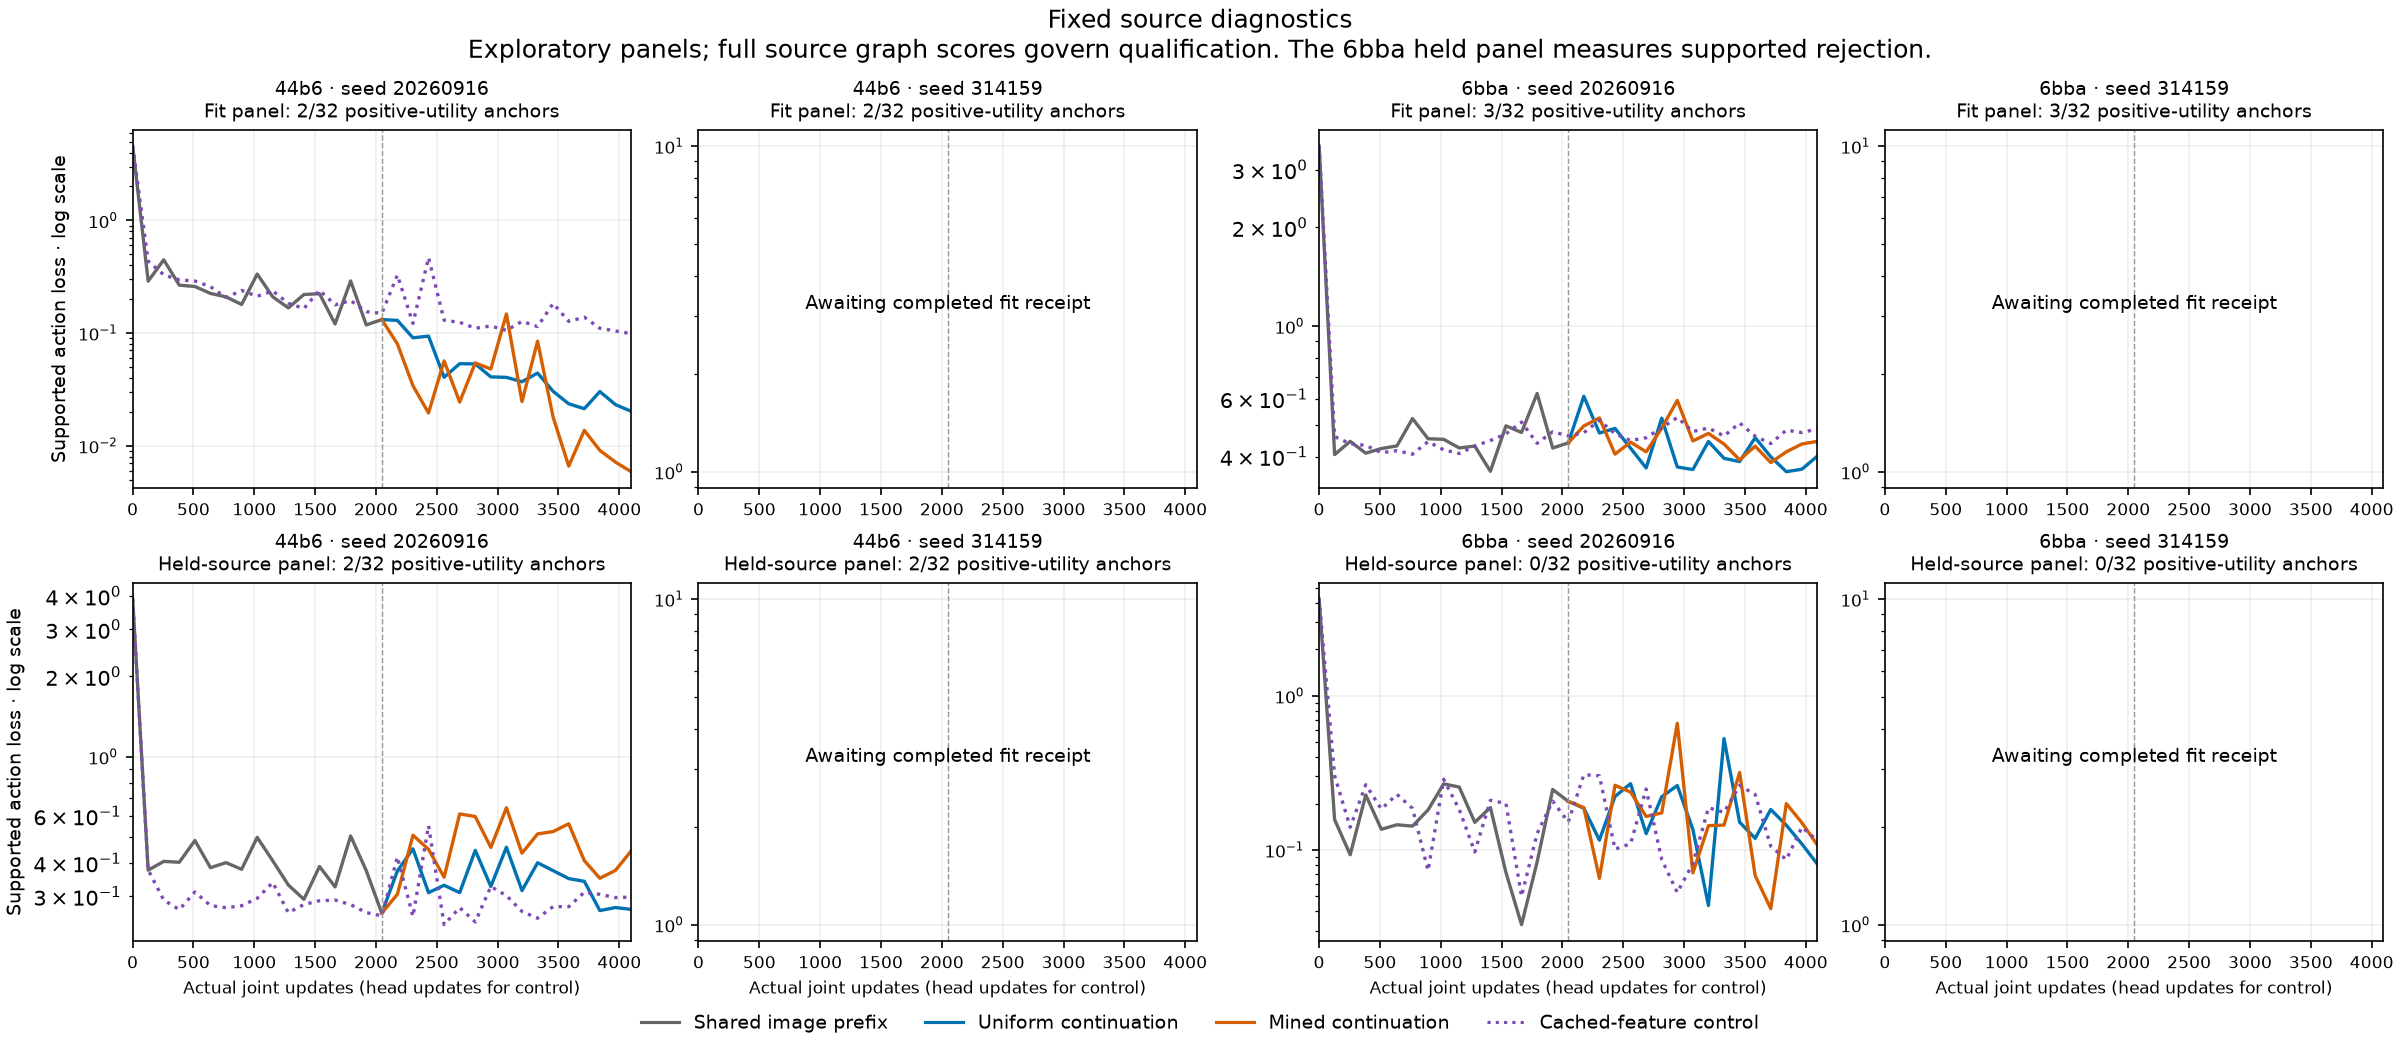
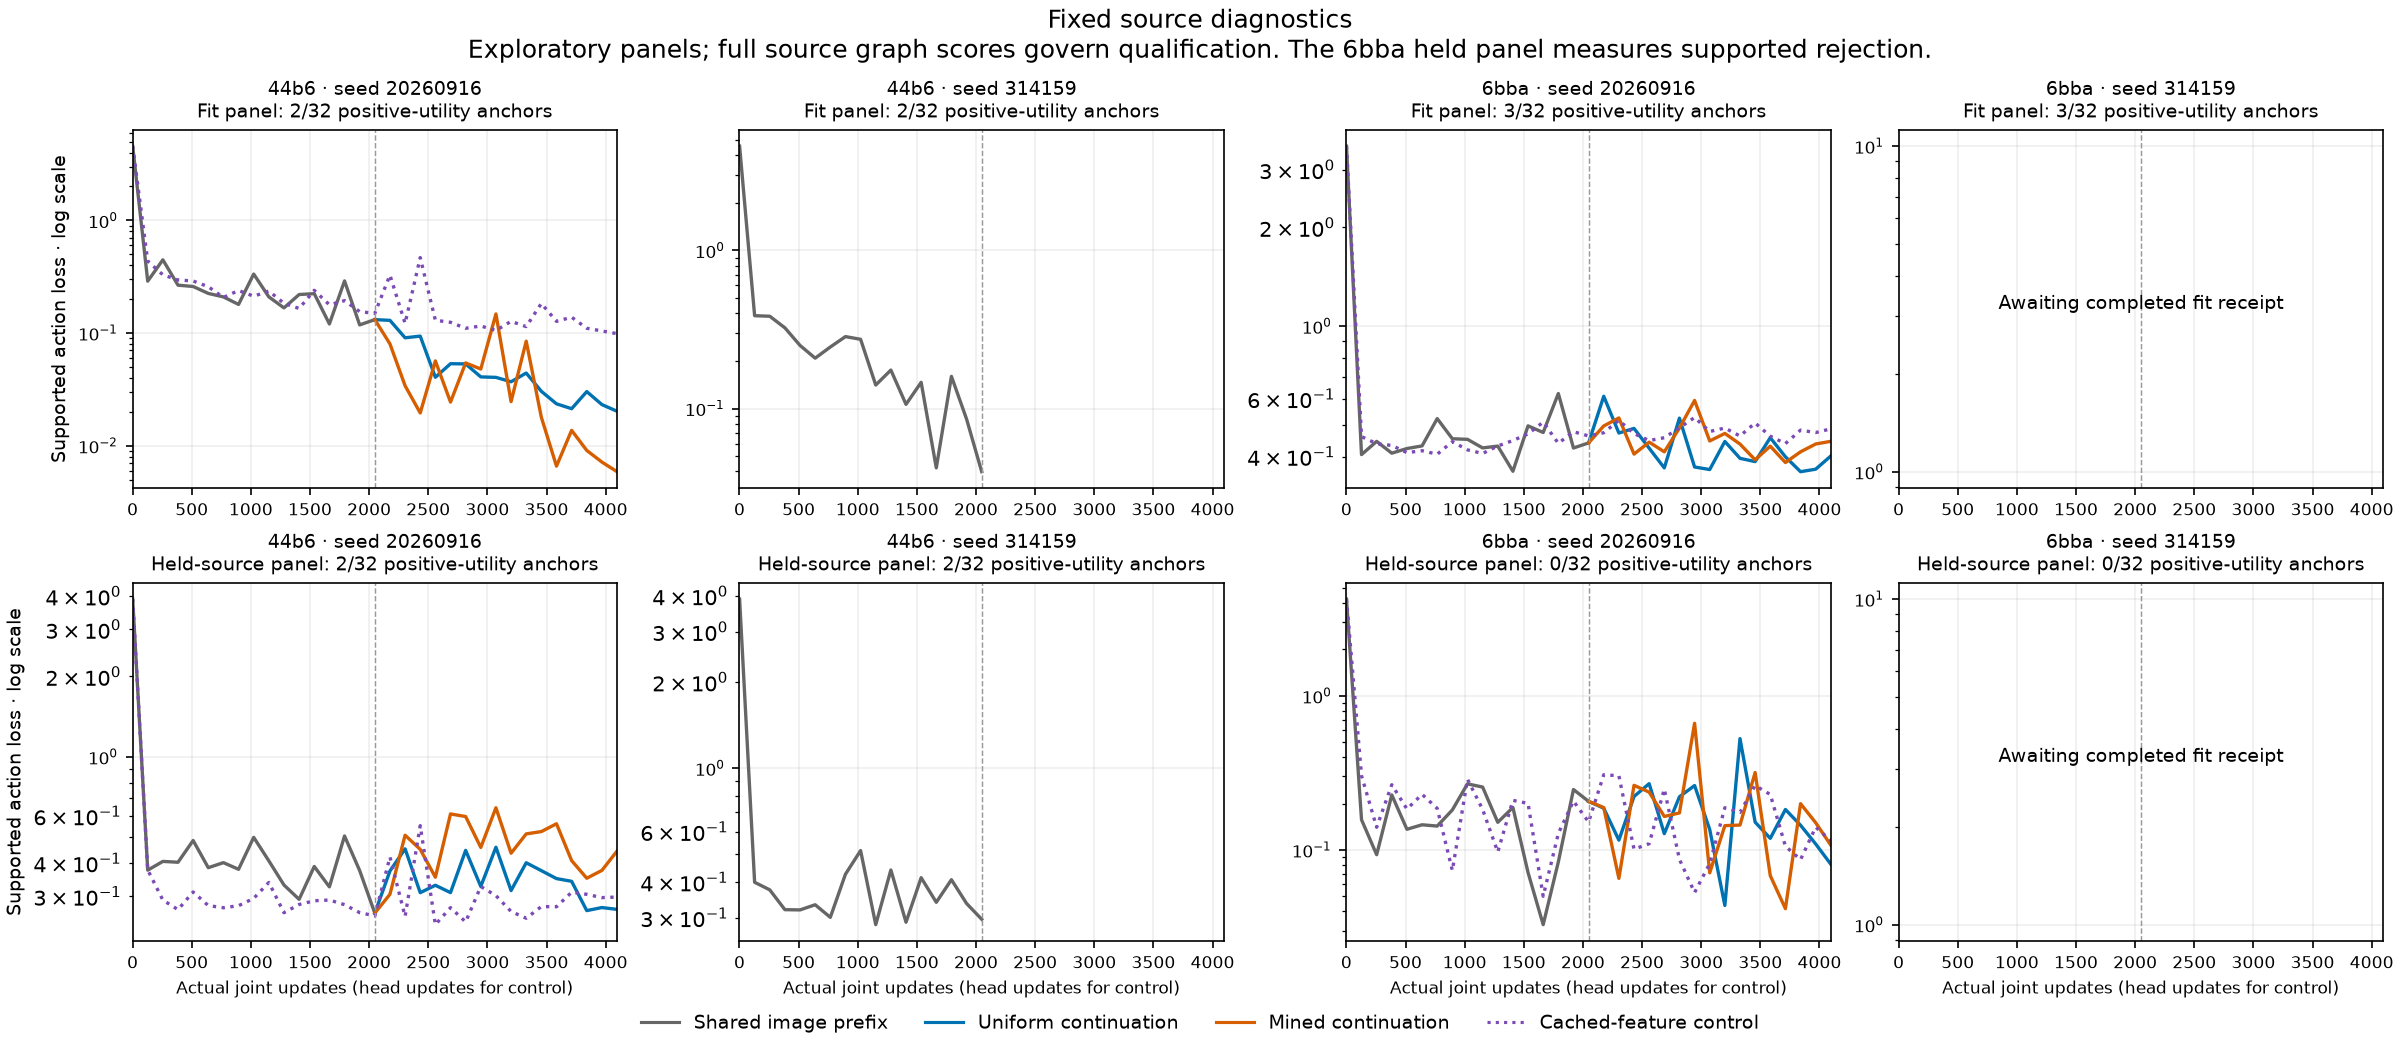
Account for discarded update work and record recovered second-seed prefix

diff --git a/tools/division_generalization_v2/report.py b/tools/division_generalization_v2/report.py
@@ -34,6 +34,20 @@ def completion_gates(complete,arm,target,fresh,gates,fits,freeze,image_gate,matr
 def run(args=None):
     RESULTS.mkdir(parents=True,exist_ok=True)
     fits=[];curves=[];source_scores=[];calibrations=[];runtime=[]
+    crash_replays=[]
+    timing_fields=('loader_seconds','transfer_seconds','augmentation_seconds','loader_transfer_seconds',
+                   'encoder_head_seconds','backward_seconds','optimizer_seconds','compute_seconds')
+    for path in sorted(RESULTS.glob('crash_recovery_*.json')):
+        recovery=read_json(path)
+        source,arm,seed=(recovery['resume_source'],recovery['resume_arm'],recovery['resume_seed'])
+        history=Path(recovery['archive'])/f'training-{arm}-{source}-{seed}'/'history.jsonl'
+        discarded=[json.loads(line) for line in history.read_text().splitlines()
+                   if json.loads(line)['step']>recovery['resume_step']]
+        crash_replays.append(dict(source=source,arm=arm,seed=seed,updates=len(discarded),
+            archived_history_sha256=sha(history),recovery_receipt_sha256=sha(path),
+            totals={k:sum(r.get(k,0.) for r in discarded) for k in timing_fields},
+            scope='Executed before poweroff, then replayed from the saved checkpoint; additional to retained history timings',
+            interrupted_invocation_wall_and_checkpoint_times_complete=False))
     prefix_pairs=[]
     for source in ('44b6','6bba'):
         for seed in (20260916,314159):
@@ -76,15 +90,15 @@ def run(args=None):
         history=folder/'history.jsonl'
         if history.exists():
             updates=[json.loads(line) for line in history.read_text().splitlines()]
-            fields=('loader_seconds','transfer_seconds','augmentation_seconds','loader_transfer_seconds',
-                    'encoder_head_seconds','backward_seconds','optimizer_seconds','compute_seconds')
             runtime.append(dict(arm=row['arm'],source=row['source'],seed=row['seed'],
                 recorded_updates=len(updates),first_step=min(r['step'] for r in updates),
                 last_step=max(r['step'] for r in updates),
-                totals={k:sum(r.get(k,0.) for r in updates) for k in fields},
+                totals={k:sum(r.get(k,0.) for r in updates) for k in timing_fields},
                 maximum_gradient_norm=max(r['gradient_norm'] for r in updates),
                 checkpoint_seconds=invocation_totals['checkpoint_seconds'],wall_seconds=invocation_totals['wall_seconds'],
                 measured_invocations=len(invocations),
+                crash_interrupted_invocation=any((r['source'],r['arm'],r['seed'])==
+                    (row['source'],row['arm'],row['seed']) for r in crash_replays),
                 includes_common_prefix=row['arm'] not in ('J_uniform','J_mined'),
                 cuda_kernel_profiler_seconds=None,
                 timing_scope='Synchronized operation wall times; encoder/head includes CPU dispatch, not pure kernel time'))
@@ -125,7 +139,7 @@ def run(args=None):
         r=read_json(path)
         inference.append(dict(kind='single_source',dataset=output.name,receipt=str(path),sha256=sha(path),
             seconds=r['seconds'],timings=r['timings'],counts=r['counts']))
-    write_json(RESULTS/'runtime_breakdown.json',dict(training=runtime,inference=inference,
+    write_json(RESULTS/'runtime_breakdown.json',dict(training=runtime,inference=inference,crash_replays=crash_replays,
         independent_workers_overlap=True,wall_times_must_not_be_summed_into_total_elapsed=True,
         reason=None if runtime else 'Production optimizer histories are not complete yet'))
     write_json(RESULTS/'calibration_audit.json',dict(status='measured' if calibrations else 'pending',fits=calibrations,

diff --git a/results/division-generalization-v2/REPORT.md b/results/division-generalization-v2/REPORT.md
@@ -28,7 +28,7 @@ This is exploratory source-only direct fitting on exposed P0 observations. Reuse
 
 [Training receipts](training_receipts.json), [fixed source curves](training_curves.csv), [source curve plot](training_event_curves.png), [complete source screens](source_scores.csv), [per-embryo scores](per_embryo_scores.csv), [sampling audit](sampling_audit.json), [validation](validation.json), [resources](resource.json).
 
-Accounted exclusive GPU leases: 4.018 h; waits: 2064.0 s. This includes 10.066 s estimated for an interrupted lease; host downtime is excluded. Full lease intervals include preprocessing. [Operation wall timings](runtime_breakdown.json) separate loading, transfers, augmentation, encoder/head, backward, optimizer and checkpoint work; pure CUDA kernel time is not measured.
+Accounted exclusive GPU leases: 4.173 h; waits: 2065.1 s. This includes 10.066 s estimated for an interrupted lease; host downtime is excluded. Full lease intervals include preprocessing. [Operation wall timings](runtime_breakdown.json) separate loading, transfers, augmentation, encoder/head, backward, optimizer and checkpoint work; pure CUDA kernel time is not measured.
 
 An early image implementation sampled CNN feature maps at shifted coordinates. Those image fits were archived as implementation-invalid and restarted from scratch; their updates do not count toward training adequacy, and their GPU leases remain in the cost ledger. The cached-feature controls are unaffected, verified by exact output parity. [Corrected image proof](corrected_image_validation.json), [profile provenance](profile_provenance.json), [control compatibility](model_code_compatibility.json).
 
